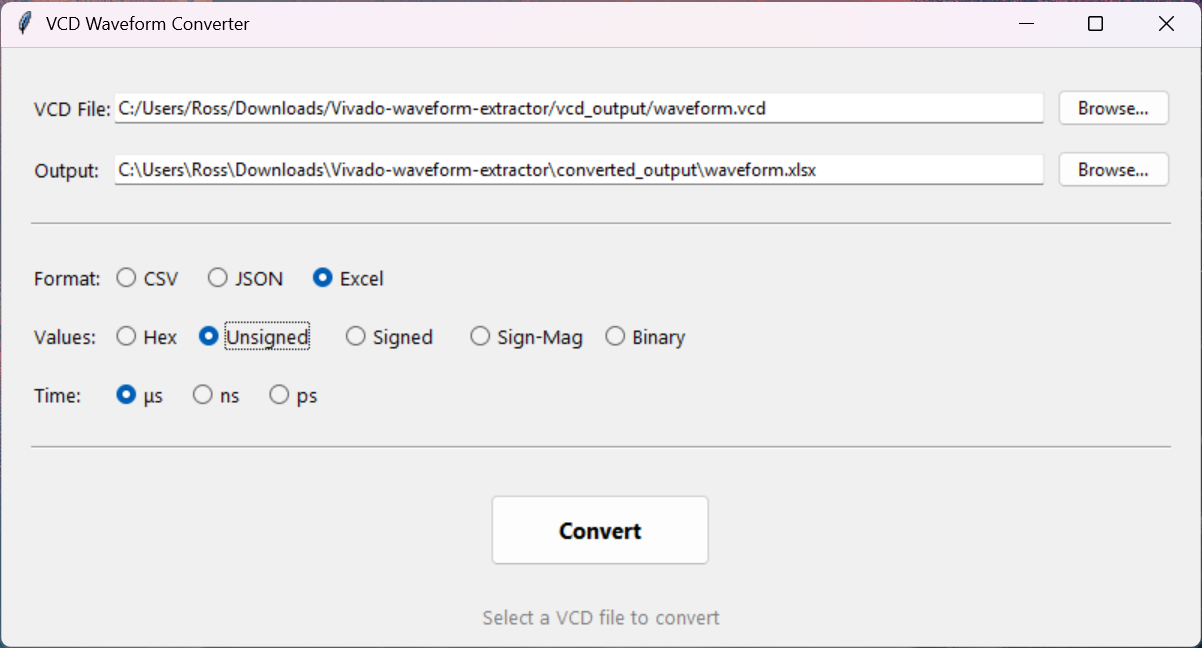
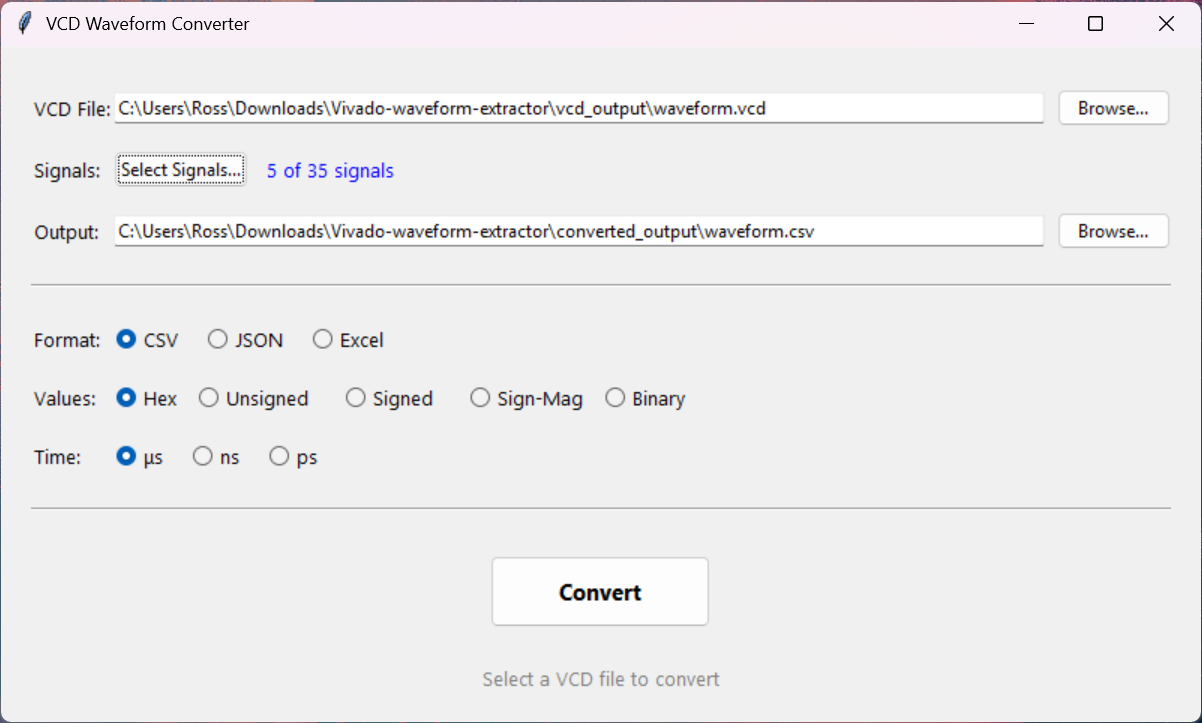
update images for signal selection

diff --git a/README.md b/README.md
@@ -34,6 +34,12 @@ python vcd_converter.py waveform.vcd --json  # CLI
 
 ![VCD Converter GUI](images/gui_screenshot.png)
 
+## Signal Selection
+
+![Signal Selection Dialog](images/signal_selection.png)
+
+Click **"Select Signals..."** to choose which signals to include in the export. This is useful for excluding internal/temporary signals from sub-modules. The dialog shows full hierarchical paths (e.g., `testBench.uut.f1.carry`) so you can easily identify signals from different module instances.
+
 ## Requirements
 
 **Tcl Script:** Xilinx Vivado 2020.x+ with active XSim simulation
